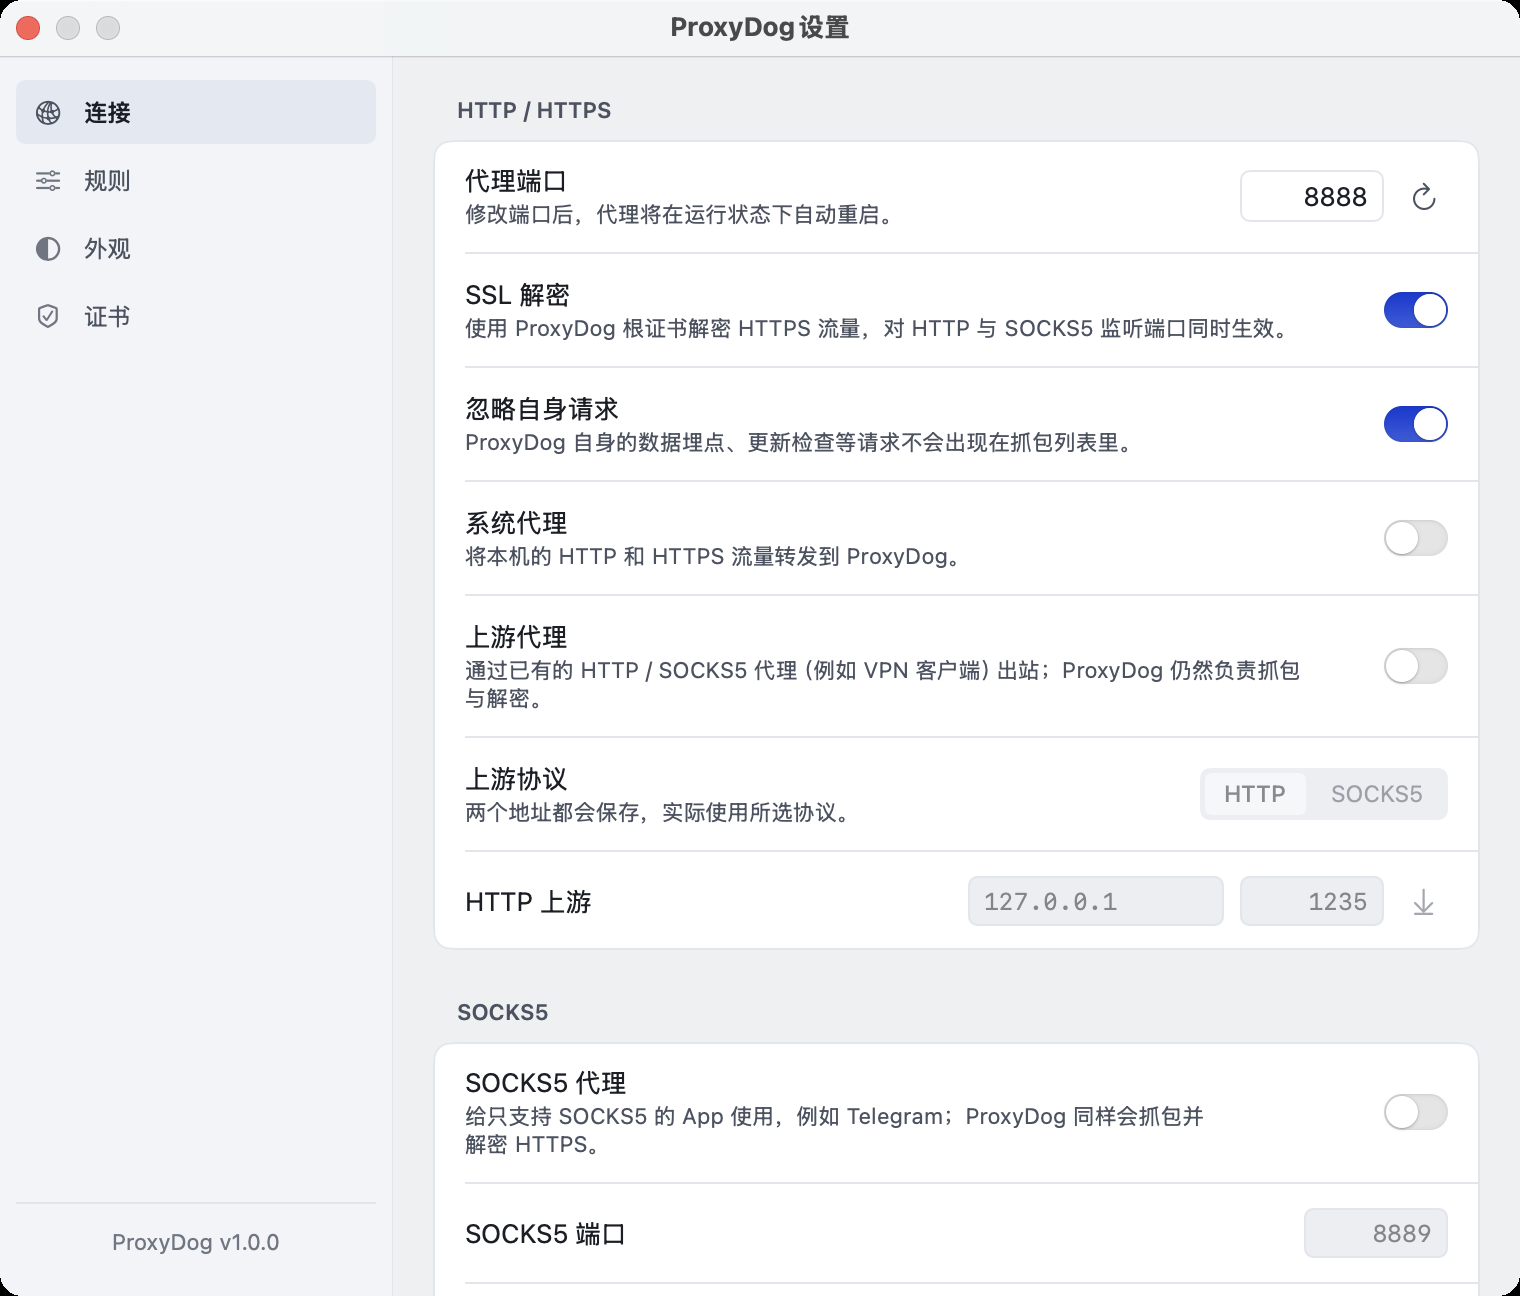
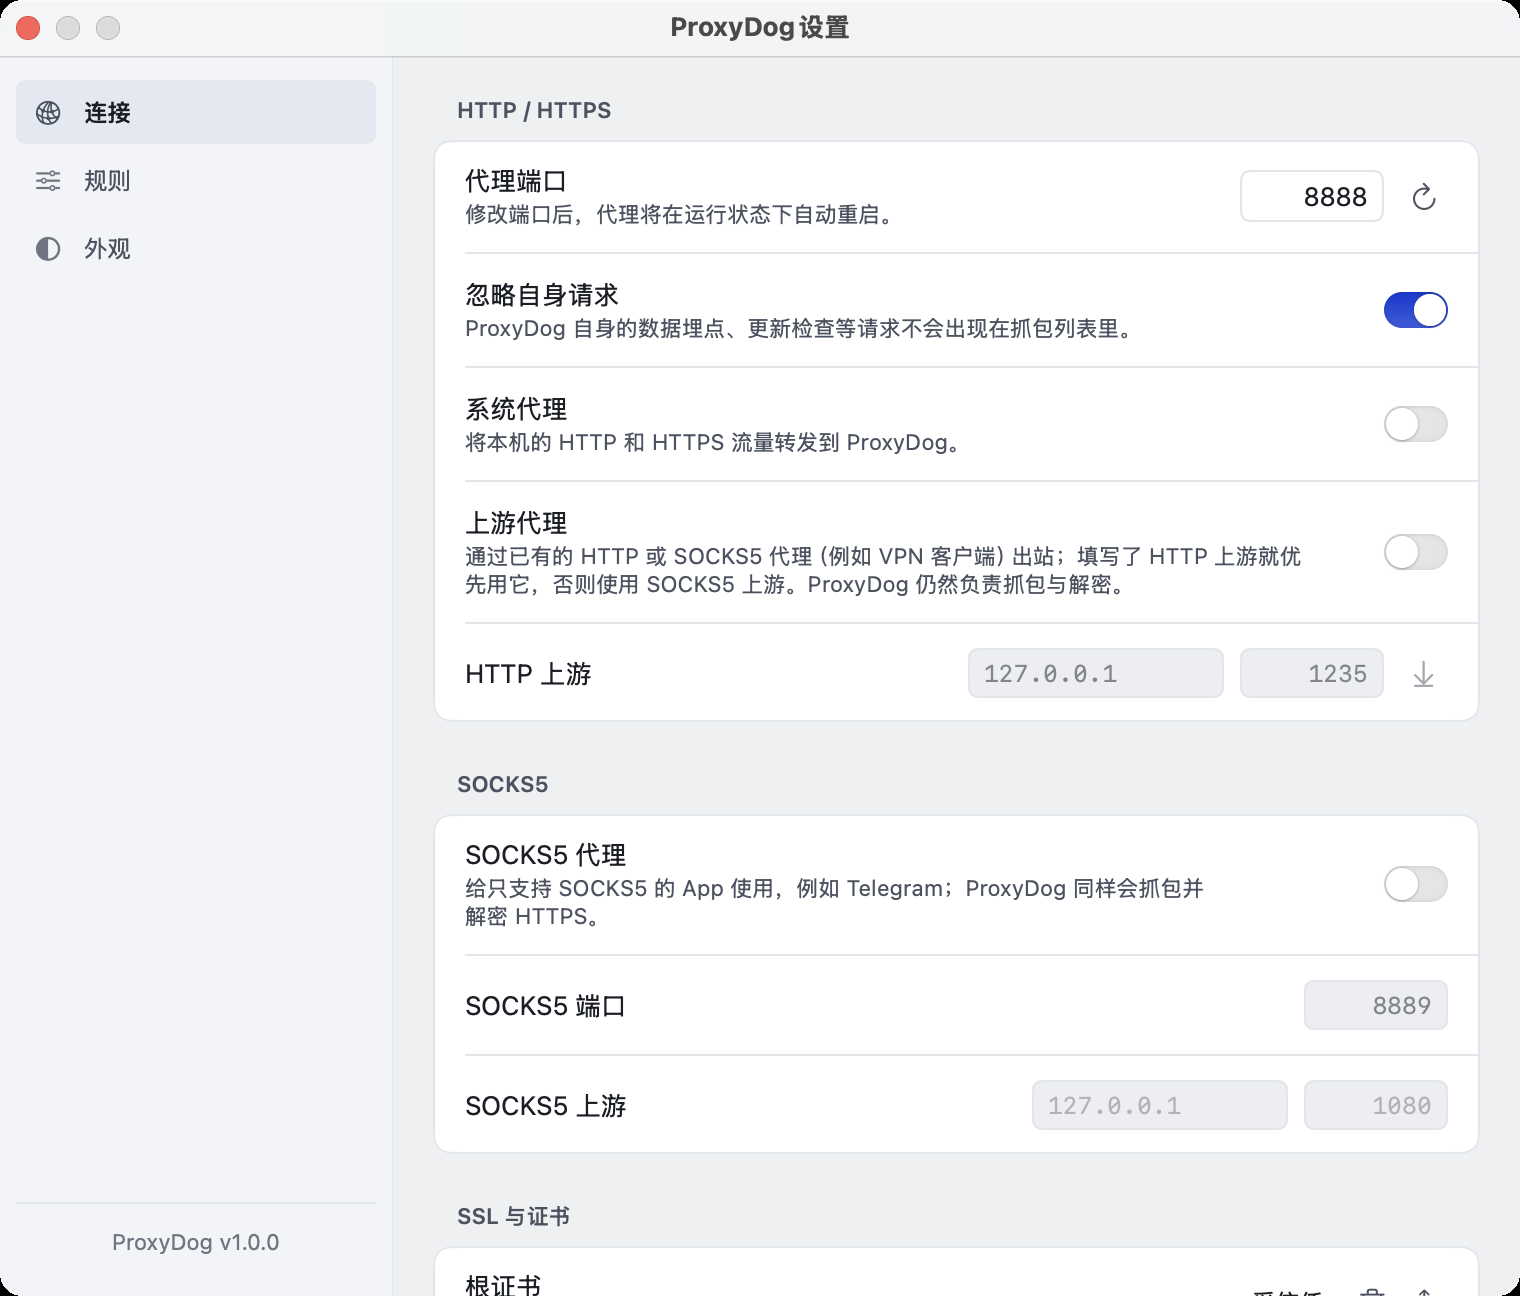
Pick the upstream protocol from the filled address instead of a selector

diff --git a/Sources/ProxyDog/AppState.swift b/Sources/ProxyDog/AppState.swift
@@ -229,14 +229,14 @@ final class AppState: ObservableObject {
     /// the configuration is invalid (nothing is applied in that case).
     @discardableResult
     func applyUpstreamProxy(enabled: Bool, host: String, port: Int) -> String? {
-        applyUpstreamProxy(enabled: enabled, host: host, port: port, kind: settings.upstreamProxyKind)
+        applyUpstreamProxy(enabled: enabled, host: host, port: port, kind: settings.effectiveUpstreamKind)
     }
 
     @discardableResult
-    func applyUpstreamProxy(enabled: Bool, host: String, port: Int, kind: UpstreamProxyKind) -> String? {
+    func applyUpstreamProxy(enabled: Bool, host: String, port: Int, kind requestedKind: UpstreamProxyKind) -> String? {
         var host = host
         var port = port
-        var kind = kind
+        var kind = requestedKind
         // Turning the switch on with an empty address: use the detected system proxy first.
         if enabled, host.trimmingCharacters(in: .whitespacesAndNewlines).isEmpty,
            let detected = detectSystemUpstreamProxy() {
@@ -245,30 +245,50 @@ final class AppState: ObservableObject {
             kind = .httpConnect
         }
         let trimmedHost = host.trimmingCharacters(in: .whitespacesAndNewlines)
+        let previousHost = settings.upstreamHost(for: kind)
+        let previousPort = settings.upstreamPort(for: kind)
+        let previousEnabled = settings.upstreamProxyEnabled
+        let previousKind = settings.upstreamProxyKind
+
+        // Store the edited address first; the protocol in use is derived from what is filled.
+        settings.setUpstreamAddress(host: trimmedHost, port: port, kind: kind)
+        let effectiveKind = settings.effectiveUpstreamKind
+        func rollback() {
+            settings.setUpstreamAddress(host: previousHost, port: previousPort, kind: kind)
+            settings.upstreamProxyKind = previousKind
+            settings.upstreamProxyEnabled = previousEnabled
+        }
+
         if enabled {
-            guard !trimmedHost.isEmpty else {
+            let effectiveHost = settings.upstreamHost(for: effectiveKind)
+                .trimmingCharacters(in: .whitespacesAndNewlines)
+            let effectivePort = settings.upstreamPort(for: effectiveKind)
+            guard !effectiveHost.isEmpty else {
+                rollback()
                 return String(localized: "Enter the host of the upstream proxy.")
             }
-            guard (1...65535).contains(port) else {
+            guard (1...65535).contains(effectivePort) else {
+                rollback()
                 return String(localized: "Port must be between 1 and 65535.")
             }
-            let candidate = UpstreamProxy(kind: kind, host: trimmedHost, port: port)
+            let candidate = UpstreamProxy(kind: effectiveKind, host: effectiveHost, port: effectivePort)
             if candidate.isLoopback, candidate.port == settings.port {
+                rollback()
                 return String(localized: "The upstream proxy cannot be ProxyDog itself.")
             }
             if candidate.isLoopback, settings.socksProxyEnabled, candidate.port == settings.socksProxyPort {
+                rollback()
                 return String(localized: "The upstream proxy cannot be ProxyDog itself.")
             }
         }
 
-        let changed = settings.upstreamProxyEnabled != enabled
-            || settings.upstreamHost(for: kind) != trimmedHost
-            || settings.upstreamPort(for: kind) != port
-            || settings.upstreamProxyKind != kind
+        let changed = previousEnabled != enabled
+            || previousKind != effectiveKind
+            || settings.upstreamHost(for: effectiveKind) != previousHost
+            || settings.upstreamPort(for: effectiveKind) != previousPort
 
         settings.upstreamProxyEnabled = enabled
-        settings.upstreamProxyKind = kind
-        settings.setUpstreamAddress(host: trimmedHost, port: port, kind: kind)
+        settings.upstreamProxyKind = effectiveKind
         proxy.upstreamProxy = upstreamProxyFromSettings()
 
         if changed, proxy.status.isRunning || proxyStatus.isRunning {
@@ -331,11 +351,13 @@ final class AppState: ObservableObject {
     /// when the settings pane opens so it shows the detected proxy instead of empty fields.
     @discardableResult
     func autoFillUpstreamProxyIfEmpty() -> Bool {
-        let hostEmpty = settings.upstreamHost.trimmingCharacters(in: .whitespacesAndNewlines).isEmpty
-            || settings.upstreamPort <= 0
-        guard hostEmpty, let detected = detectSystemUpstreamProxy() else { return false }
-        settings.upstreamProxyKind = .httpConnect
+        let httpEmpty = settings.upstreamHTTPHost.trimmingCharacters(in: .whitespacesAndNewlines).isEmpty
+            || settings.upstreamHTTPPort <= 0
+        let socksEmpty = settings.upstreamSOCKSHost.trimmingCharacters(in: .whitespacesAndNewlines).isEmpty
+            || settings.upstreamSOCKSPort <= 0
+        guard httpEmpty, socksEmpty, let detected = detectSystemUpstreamProxy() else { return false }
         settings.setUpstreamAddress(host: detected.host, port: detected.port, kind: .httpConnect)
+        settings.upstreamProxyKind = settings.effectiveUpstreamKind
         return true
     }
 
@@ -344,15 +366,15 @@ final class AppState: ObservableObject {
     @discardableResult
     func detectUpstreamProxyFromSystem() -> Bool {
         guard let detected = detectSystemUpstreamProxy() else { return false }
-        settings.upstreamProxyKind = .httpConnect
         settings.setUpstreamAddress(host: detected.host, port: detected.port, kind: .httpConnect)
+        settings.upstreamProxyKind = settings.effectiveUpstreamKind
         return true
     }
 
     /// Current upstream configuration derived from settings, nil when disabled/invalid.
     func upstreamProxyFromSettings() -> UpstreamProxy? {
         guard settings.upstreamProxyEnabled else { return nil }
-        let kind = settings.upstreamProxyKind
+        let kind = settings.effectiveUpstreamKind
         let host = settings.upstreamHost(for: kind).trimmingCharacters(in: .whitespacesAndNewlines)
         let port = settings.upstreamPort(for: kind)
         guard !host.isEmpty, (1...65535).contains(port) else { return nil }

diff --git a/Sources/ProxyDog/UI/SettingsView.swift b/Sources/ProxyDog/UI/SettingsView.swift
@@ -251,7 +251,7 @@ struct SettingsView: View {
                 SettingsHairline()
                 SettingsRow(
                     title: "Upstream proxy",
-                    hint: "Sends outbound traffic through an existing HTTP proxy such as a VPN client. ProxyDog still captures and decrypts."
+                    hint: "Sends outbound traffic through an existing proxy such as a VPN client. The HTTP address is used when filled, otherwise SOCKS5; ProxyDog still captures and decrypts."
                 ) {
                     Toggle("", isOn: Binding(
                         get: { settings.upstreamProxyEnabled },
@@ -265,24 +265,8 @@ struct SettingsView: View {
                 }
                 SettingsHairline()
                 SettingsRow(
-                    title: "Upstream protocol",
-                    hint: "Both addresses are stored; the selected protocol is used."
-                ) {
-                    PDSegmented(
-                        items: UpstreamProxyKind.allCases.map { kind in
-                            PDSegmented<UpstreamProxyKind>.Item(value: kind, label: kind.label)
-                        },
-                        selection: Binding(
-                            get: { settings.upstreamProxyKind },
-                            set: { applyUpstreamKindChange($0) }
-                        )
-                    )
-                    .disabled(!settings.upstreamProxyEnabled)
-                }
-                SettingsHairline()
-                SettingsRow(
                     title: "HTTP upstream",
-                    errorText: settings.upstreamProxyKind == .httpConnect ? upstreamError : nil
+                    errorText: settings.effectiveUpstreamKind == .httpConnect ? upstreamError : nil
                 ) {
                     HStack(spacing: DS.Space.x2) {
                         TextField(detectedUpstreamHost, text: $upstreamHTTPHostText)
@@ -370,7 +354,7 @@ struct SettingsView: View {
                 SettingsHairline()
                 SettingsRow(
                     title: "SOCKS5 upstream",
-                    errorText: settings.upstreamProxyKind == .socks5 ? upstreamError : nil
+                    errorText: settings.effectiveUpstreamKind == .socks5 ? upstreamError : nil
                 ) {
                     HStack(spacing: DS.Space.x2) {
                         TextField("127.0.0.1", text: $upstreamSOCKSHostText)
@@ -642,7 +626,7 @@ struct SettingsView: View {
         upstreamHTTPPortFocused = false
         upstreamSOCKSHostFocused = false
         upstreamSOCKSPortFocused = false
-        let kind = settings.upstreamProxyKind
+        let kind = settings.effectiveUpstreamKind
         if let error = state.applyUpstreamProxy(
             enabled: enabled,
             host: settings.upstreamHost(for: kind),
@@ -657,41 +641,20 @@ struct SettingsView: View {
         syncUpstreamFields()
     }
 
-    private func applyUpstreamKindChange(_ kind: UpstreamProxyKind) {
-        guard kind != settings.upstreamProxyKind else { return }
-        if let error = state.applyUpstreamProxy(
-            enabled: settings.upstreamProxyEnabled,
-            host: settings.upstreamHost(for: kind),
-            port: settings.upstreamPort(for: kind),
-            kind: kind
-        ) {
-            // Nothing is applied on failure; the segmented control falls back to the
-            // protocol that is still selected in settings.
-            upstreamError = error
-            return
-        }
-        upstreamError = nil
-        syncUpstreamFields()
-    }
-
     private func commitUpstreamAddress(_ kind: UpstreamProxyKind) {
-        guard settings.upstreamProxyEnabled else { return }
         let host = hostText(for: kind)
         let port = parsedPort(for: kind)
-        if settings.upstreamProxyKind == kind {
-            if let error = state.applyUpstreamProxy(enabled: true, host: host, port: port, kind: kind) {
-                upstreamError = error
-                syncUpstreamFields(for: kind)
-                return
-            }
-            upstreamError = nil
-            syncUpstreamFields(for: kind)
+        if let error = state.applyUpstreamProxy(
+            enabled: settings.upstreamProxyEnabled,
+            host: host,
+            port: port,
+            kind: kind
+        ) {
+            upstreamError = error
         } else {
-            // Pre-fill the address of the protocol that is not in use yet.
-            settings.setUpstreamAddress(host: host, port: port, kind: kind)
             upstreamError = nil
-            syncUpstreamFields(for: kind)
         }
+        syncUpstreamFields()
     }
 
     private func fillUpstreamFromSystem() {

diff --git a/Sources/ProxyDog/Models/AppSettings.swift b/Sources/ProxyDog/Models/AppSettings.swift
@@ -99,6 +99,16 @@ final class AppSettings: ObservableObject {
         didSet { defaults.set(upstreamProxyKind.rawValue, forKey: Key.upstreamKind) }
     }
 
+    /// Protocol used for chaining: an HTTP address wins when present, otherwise SOCKS5.
+    /// Both addresses can stay stored; the switch is implicit so there is no protocol picker.
+    var effectiveUpstreamKind: UpstreamProxyKind {
+        let httpHost = upstreamHTTPHost.trimmingCharacters(in: .whitespacesAndNewlines)
+        if !httpHost.isEmpty, (1...65535).contains(upstreamHTTPPort) { return .httpConnect }
+        let socksHost = upstreamSOCKSHost.trimmingCharacters(in: .whitespacesAndNewlines)
+        if !socksHost.isEmpty, (1...65535).contains(upstreamSOCKSPort) { return .socks5 }
+        return upstreamProxyKind
+    }
+
     /// Address of the currently selected upstream protocol.
     var upstreamHost: String {
         upstreamProxyKind == .httpConnect ? upstreamHTTPHost : upstreamSOCKSHost
